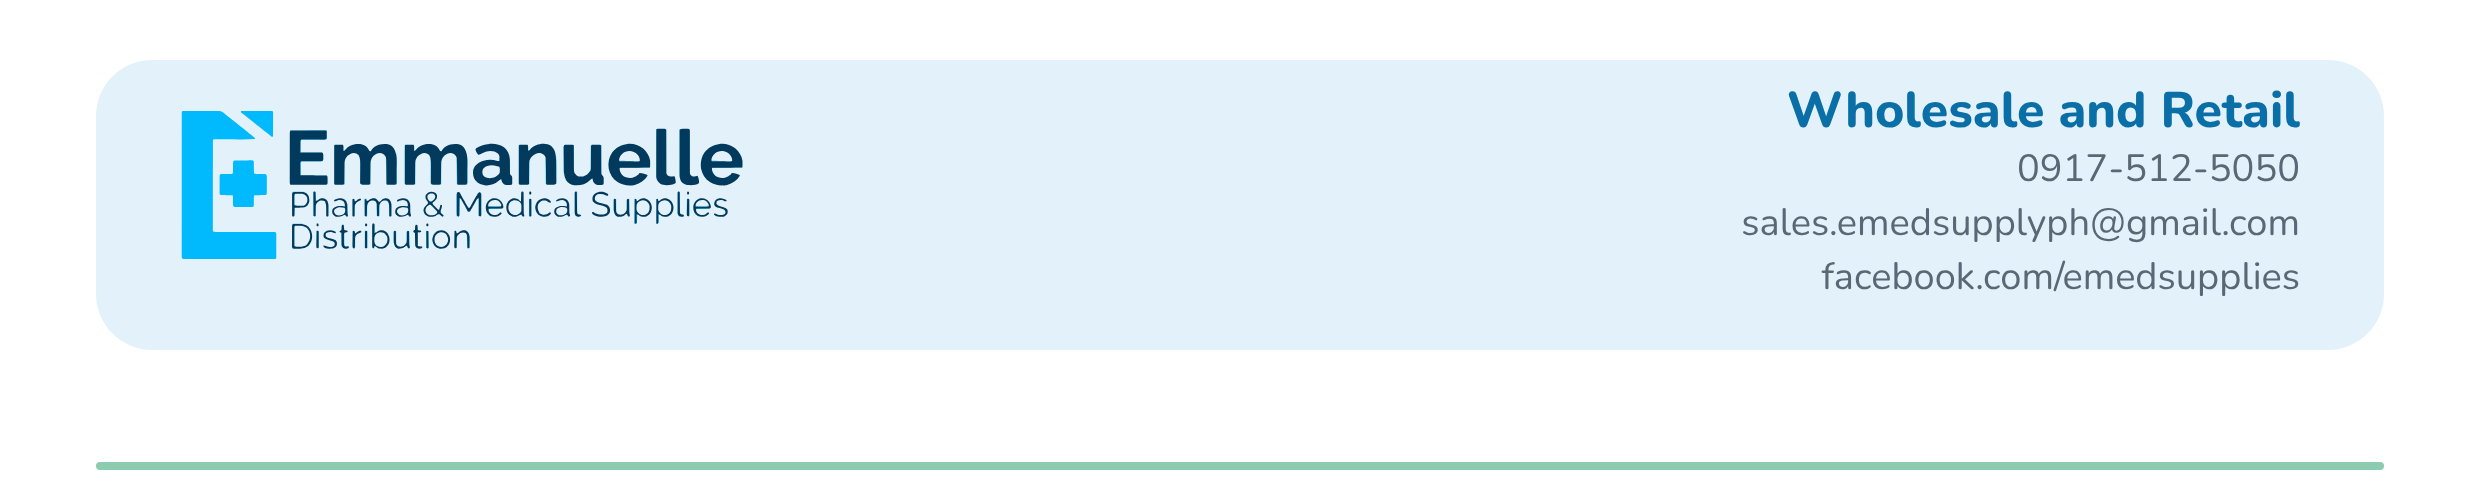
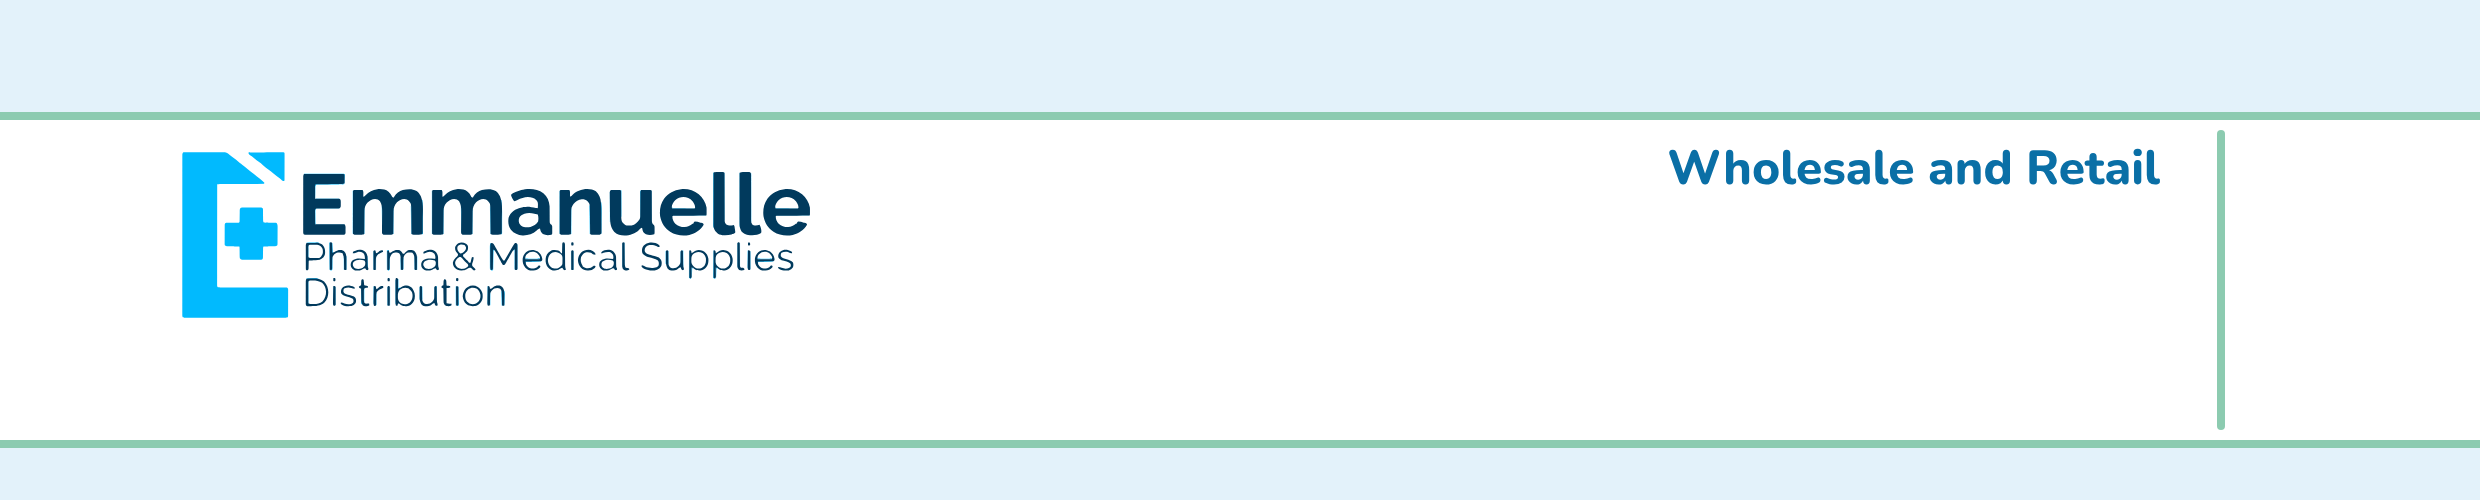
Apply letterhead zone spec to all first-page headers and document it repo-wide
Claude-Session: https://claude.ai/code/session_01YSFsKS7DuvEayQpNKr816y

diff --git a/medsource/print/2026-10-medsource-letterhead-template/source.html b/medsource/print/2026-10-medsource-letterhead-template/source.html
@@ -13,16 +13,7 @@ body{background:#888;font-family:"Poppins",sans-serif;display:flex;flex-directio
 .piece{position:relative;width:2480px;background:var(--white);overflow:hidden}
 .band{position:absolute;left:0;width:2480px}
 
-/* First page header 2480 x 500 */
 #h1{height:500px}
-#h1 .logo{position:absolute;left:177px;top:84px;height:200px}
-#h1 .addr{position:absolute;right:177px;top:84px;height:200px;display:flex;align-items:center;gap:32px}
-#h1 .addr .txt{font-size:38px;line-height:54px;font-weight:400;color:var(--navy);text-align:right;letter-spacing:.01em}
-#h1 .addr .txt b{font-weight:700}
-#h1 .addr .txt b.tag{font-size:46px;line-height:64px;letter-spacing:.02em}
-#h1 .addr .txt b.tag span{color:var(--greenstrong)}
-#h1 .addr .rule{width:5px;height:176px;background:var(--green)}
-#h1 .pin{width:64px;height:64px;border-radius:50%;background:var(--navy);display:flex;align-items:center;justify-content:center;flex:none}
 
 /* Later pages header 2480 x 250 (slim band) */
 #h2{height:250px}
@@ -41,17 +32,14 @@ body{background:#888;font-family:"Poppins",sans-serif;display:flex;flex-directio
 </head>
 <body>
 
-<div class="piece" id="h1">
-  <div class="band" style="top:0;height:40px;background:var(--forest)"></div>
-  <div class="band" style="top:40px;height:6px;background:var(--green)"></div>
-  <img class="logo" src="assets/medsource-landscape.svg" alt="MedSource Medical Supplies and Equipment">
-  <div class="addr">
-    <div class="txt"><b class="tag">Certified #Med<span>Mura</span></b><br>0906 299 3555<br>sales.quotations@medsource.com.ph</div>
-    <div class="rule"></div>
-    <div class="pin"><svg width="34" height="34" viewBox="0 0 24 24"><path fill="#fff" d="M6.6 10.8a15.1 15.1 0 0 0 6.6 6.6l2.2-2.2a1 1 0 0 1 1-.25 11.4 11.4 0 0 0 3.6.57 1 1 0 0 1 1 1V20a1 1 0 0 1-1 1A17 17 0 0 1 3 4a1 1 0 0 1 1-1h3.5a1 1 0 0 1 1 1c0 1.25.2 2.45.57 3.6a1 1 0 0 1-.25 1z"/></svg></div>
-  </div>
-  <div class="band" style="top:442px;height:6px;background:var(--green)"></div>
-  <div class="band" style="top:448px;height:20px;background:var(--navy)"></div>
+<div class="piece" id="h1"><!-- spec: letterhead-first-page-spec.jpg; zone A (177-1240, 360-430) and zone B (1300-2160, 215-430) stay blank -->
+  <div class="band" style="top:0;height:112px;background:var(--forest)"></div>
+  <div class="band" style="top:112px;height:8px;background:var(--green)"></div>
+  <img style="position:absolute;left:177px;top:140px;height:190px" src="assets/medsource-landscape.svg" alt="MedSource Medical Supplies and Equipment">
+  <div style="position:absolute;right:320px;top:130px;height:75px;display:flex;align-items:center;font-size:44px;letter-spacing:.02em;white-space:nowrap"><b style="font-weight:700;color:var(--navy)">Certified #Med<span style="color:var(--greenstrong)">Mura</span></b></div>
+  <div style="position:absolute;left:2217px;top:130px;width:6px;height:300px;background:var(--green)"></div>
+  <div class="band" style="top:440px;height:8px;background:var(--green)"></div>
+  <div class="band" style="top:448px;height:52px;background:var(--navy)"></div>
 </div>
 
 <div class="piece" id="h2">

diff --git a/medsource/print/2026-10-legal-letterhead-template/source.html b/medsource/print/2026-10-legal-letterhead-template/source.html
@@ -14,15 +14,7 @@ body{background:#888;font-family:"Poppins",sans-serif;display:flex;flex-directio
 .band{position:absolute;left:0;width:2480px}
 .tag{position:absolute;white-space:nowrap;font-weight:400;color:var(--forest);letter-spacing:.04em}
 
-/* First page header 2480 x 500 */
 #h1{height:500px}
-#h1 .logo{position:absolute;left:177px;top:84px;height:176px}
-#h1 .tag{left:auto;right:177px;top:84px;font-size:38px;line-height:52px;font-weight:700;color:var(--forest);letter-spacing:.02em}
-#h1 .addr{position:absolute;right:177px;top:144px;height:174px;display:flex;align-items:center;gap:32px}
-#h1 .addr .txt{font-size:40px;line-height:58px;font-weight:400;color:var(--navy);text-align:right;letter-spacing:.01em}
-#h1 .addr .txt b{font-weight:600;font-family:"Poppins";font-weight:700}
-#h1 .addr .rule{width:5px;height:140px;background:var(--green)}
-#h1 .pin{width:64px;height:64px;border-radius:50%;background:var(--navy);display:flex;align-items:center;justify-content:center;flex:none}
 
 /* Later pages header 2480 x 250 (slim band) */
 #h2{height:250px}
@@ -39,18 +31,14 @@ body{background:#888;font-family:"Poppins",sans-serif;display:flex;flex-directio
 </head>
 <body>
 
-<div class="piece" id="h1">
-  <div class="band" style="top:0;height:40px;background:var(--forest)"></div>
-  <div class="band" style="top:40px;height:6px;background:var(--green)"></div>
-  <img class="logo" src="assets/medsource-world.svg" alt="MedSource World">
-  <div class="tag">Sourcing the Future of Healthcare</div>
-  <div class="addr">
-    <div class="txt"><b>209 Riverside Drive</b><br>Provident Village<br>Marikina City, Philippines</div>
-    <div class="rule"></div>
-    <div class="pin"><svg width="34" height="34" viewBox="0 0 24 24"><path fill="#fff" d="M12 2a7 7 0 0 0-7 7c0 5.2 7 13 7 13s7-7.8 7-13a7 7 0 0 0-7-7zm0 9.5A2.5 2.5 0 1 1 12 6.5a2.5 2.5 0 0 1 0 5z"/></svg></div>
-  </div>
-  <div class="band" style="top:442px;height:6px;background:var(--green)"></div>
-  <div class="band" style="top:448px;height:20px;background:var(--navy)"></div>
+<div class="piece" id="h1"><!-- spec: letterhead-first-page-spec.jpg; zone A (177-1240, 360-430) and zone B (1300-2160, 215-430) stay blank -->
+  <div class="band" style="top:0;height:112px;background:var(--forest)"></div>
+  <div class="band" style="top:112px;height:8px;background:var(--green)"></div>
+  <img style="position:absolute;left:177px;top:140px;height:190px" src="assets/medsource-world.svg" alt="MedSource World">
+  <div style="position:absolute;right:320px;top:130px;height:75px;display:flex;align-items:center;font-size:44px;letter-spacing:.02em;white-space:nowrap"><span style="font-weight:700;color:var(--forest)">Sourcing the Future of Healthcare</span></div>
+  <div style="position:absolute;left:2217px;top:130px;width:6px;height:300px;background:var(--green)"></div>
+  <div class="band" style="top:440px;height:8px;background:var(--green)"></div>
+  <div class="band" style="top:448px;height:52px;background:var(--navy)"></div>
 </div>
 
 <div class="piece" id="h2">

diff --git a/medplace/print/2026-10-letterhead-template/source.html b/medplace/print/2026-10-letterhead-template/source.html
@@ -11,15 +11,16 @@ body{background:#888;font-family:"DM Sans",sans-serif;display:flex;flex-directio
 #h1{height:500px}#h2{height:250px}#f{height:250px}
 .pill{position:absolute;right:177px;background:var(--orange);color:#2b1a0a;font-family:"Bricolage Grotesque";font-weight:800;border-radius:999px;box-shadow:0 6px 0 rgba(31,42,46,.14);display:flex;align-items:center;justify-content:center}
 </style></head><body>
-<div class="piece" id="h1">
-  <div class="abs" style="left:0;top:0;width:2480px;height:36px;background:var(--orange)"></div>
-  <div class="abs" style="left:0;top:36px;width:2480px;height:8px;background:var(--teal)"></div>
-  <img class="abs" style="left:177px;top:84px;height:200px" src="../../brand/logos/medplace.svg" alt="MedPlace Medical Supplies and Pharma">
-  <div class="pill" style="top:84px;height:100px;padding:0 52px;font-size:52px">Your #1 provider</div>
-  <div class="abs" style="right:177px;top:208px;text-align:right;font-size:42px;line-height:60px;color:var(--ink)"><b style="font-weight:700">0995-156-0801</b><br>davemedplace@gmail.com</div>
-  <div class="abs" style="left:0;top:452px;width:2480px;height:8px;background:var(--teal)"></div>
-  <div class="abs" style="left:0;top:460px;width:2480px;height:20px;background:var(--orange)"></div>
+<div class="piece" id="h1"><!-- spec: letterhead-first-page-spec.jpg; zone A (177-1240, 360-430) and zone B (1300-2160, 215-430) stay blank -->
+  <div class="abs" style="left:0;top:0;width:2480px;height:112px;background:var(--orange)"></div>
+  <div class="abs" style="left:0;top:112px;width:2480px;height:8px;background:var(--teal)"></div>
+  <img class="abs" style="left:177px;top:140px;height:200px" src="../../brand/logos/medplace.svg" alt="MedPlace Medical Supplies and Pharma">
+  <div class="pill" style="right:320px;top:130px;height:70px;padding:0 44px;font-size:42px;box-shadow:0 4px 0 rgba(31,42,46,.14)">Your #1 provider</div>
+  <div class="abs" style="left:2217px;top:130px;width:8px;height:300px;border-radius:4px;background:var(--teal)"></div>
+  <div class="abs" style="left:0;top:440px;width:2480px;height:8px;background:var(--teal)"></div>
+  <div class="abs" style="left:0;top:448px;width:2480px;height:52px;background:var(--orange)"></div>
 </div>
+
 <div class="piece" id="h2">
   <div class="abs" style="left:0;top:0;width:2480px;height:22px;background:var(--orange)"></div>
   <div class="abs" style="left:0;top:22px;width:2480px;height:4px;background:var(--teal)"></div>

diff --git a/emmanuelle-pharma/print/2026-10-letterhead-brand/source.html b/emmanuelle-pharma/print/2026-10-letterhead-brand/source.html
@@ -10,13 +10,16 @@ body{background:#888;font-family:"Nunito",sans-serif;display:flex;flex-direction
 #h1{height:500px}#h2{height:250px}#f{height:250px}
 .r{position:absolute;right:180px;text-align:right}
 </style></head><body>
-<div class="piece" id="h1">
-  <div class="abs" style="left:96px;top:60px;width:2288px;height:290px;border-radius:56px;background:var(--mist)"></div>
-  <img class="abs" style="left:177px;top:100px;height:170px" src="../../brand/logos/emmanuelle-landscape-navy.svg" alt="Emmanuelle Pharma and Medical Supplies Distribution">
-  <div class="r" style="top:84px;font-size:38px;line-height:54px;color:var(--muted)"><b style="font-weight:800;color:var(--deep);font-size:50px">Wholesale and Retail</b><br>0917-512-5050<br>sales.emedsupplyph@gmail.com<br>facebook.com/emedsupplies</div>
-
-  <div class="abs" style="left:96px;top:462px;width:2288px;height:8px;border-radius:4px;background:var(--sage)"></div>
+<div class="piece" id="h1"><!-- spec: letterhead-first-page-spec.jpg; zone A (177-1240, 360-430) and zone B (1300-2160, 215-430) stay blank -->
+  <div class="abs" style="left:0;top:0;width:2480px;height:112px;background:var(--mist)"></div>
+  <div class="abs" style="left:0;top:112px;width:2480px;height:8px;background:var(--sage)"></div>
+  <img class="abs" style="left:177px;top:140px;height:190px" src="../../brand/logos/emmanuelle-landscape-navy.svg" alt="Emmanuelle Pharma and Medical Supplies Distribution">
+  <div class="abs" style="right:320px;top:130px;height:75px;display:flex;align-items:center;font-weight:800;font-size:48px;color:var(--deep);white-space:nowrap">Wholesale and Retail</div>
+  <div class="abs" style="left:2217px;top:130px;width:8px;height:300px;border-radius:4px;background:var(--sage)"></div>
+  <div class="abs" style="left:0;top:440px;width:2480px;height:8px;background:var(--sage)"></div>
+  <div class="abs" style="left:0;top:448px;width:2480px;height:52px;background:var(--mist)"></div>
 </div>
+
 <div class="piece" id="h2">
   <div class="abs" style="left:96px;top:30px;width:2288px;height:160px;border-radius:44px;background:var(--mist)"></div>
   <img class="abs" style="left:177px;top:62px;height:96px" src="../../brand/logos/emmanuelle-landscape-navy.svg" alt="Emmanuelle">

diff --git a/emmanuelle-pharma/print/2026-10-letterhead-government/source.html b/emmanuelle-pharma/print/2026-10-letterhead-government/source.html
@@ -10,13 +10,16 @@ body{background:#888;font-family:"Nunito",sans-serif;display:flex;flex-direction
 #h1{height:500px}#h2{height:250px}#f{height:250px}
 .r{position:absolute;right:180px;text-align:right}
 </style></head><body>
-<div class="piece" id="h1">
-  <div class="abs" style="left:96px;top:60px;width:2288px;height:290px;border-radius:56px;background:var(--mist)"></div>
-  <img class="abs" style="left:177px;top:100px;height:170px" src="../../brand/logos/emmanuelle-landscape-navy.svg" alt="Emmanuelle Pharma and Medical Supplies Distribution">
-  <div class="r" style="top:84px;font-size:38px;line-height:54px;color:var(--muted)"><b style="font-weight:800;color:var(--deep);font-size:50px">Wholesale and Retail</b><br>209 Riverside Drive, Provident Village<br>Marikina City</div>
-
-  <div class="abs" style="left:96px;top:462px;width:2288px;height:8px;border-radius:4px;background:var(--sage)"></div>
+<div class="piece" id="h1"><!-- spec: letterhead-first-page-spec.jpg; zone A (177-1240, 360-430) and zone B (1300-2160, 215-430) stay blank -->
+  <div class="abs" style="left:0;top:0;width:2480px;height:112px;background:var(--mist)"></div>
+  <div class="abs" style="left:0;top:112px;width:2480px;height:8px;background:var(--sage)"></div>
+  <img class="abs" style="left:177px;top:140px;height:190px" src="../../brand/logos/emmanuelle-landscape-navy.svg" alt="Emmanuelle Pharma and Medical Supplies Distribution">
+  <div class="abs" style="right:320px;top:130px;height:75px;display:flex;align-items:center;font-weight:800;font-size:48px;color:var(--deep);white-space:nowrap">Wholesale and Retail</div>
+  <div class="abs" style="left:2217px;top:130px;width:8px;height:300px;border-radius:4px;background:var(--sage)"></div>
+  <div class="abs" style="left:0;top:440px;width:2480px;height:8px;background:var(--sage)"></div>
+  <div class="abs" style="left:0;top:448px;width:2480px;height:52px;background:var(--mist)"></div>
 </div>
+
 <div class="piece" id="h2">
   <div class="abs" style="left:96px;top:30px;width:2288px;height:160px;border-radius:44px;background:var(--mist)"></div>
   <img class="abs" style="left:177px;top:62px;height:96px" src="../../brand/logos/emmanuelle-landscape-navy.svg" alt="Emmanuelle">

diff --git a/LETTERHEAD-SPEC.md b/LETTERHEAD-SPEC.md
@@ -1,0 +1,29 @@
+# Letterhead format (all brands, brand level and government level)
+
+Every letterhead in this repo must comply with this layout. The system fills the letter, so the keep-blank zones must stay empty. Reference diagram: [letterhead-first-page-spec.jpg](letterhead-first-page-spec.jpg)
+
+## First page header, 2480 x 500 px (origin 0,0 top left)
+
+| Area | Coordinates | Rule |
+| --- | --- | --- |
+| Top bar | full width, y 0 to 120 | Bar only, full width |
+| Bottom bar | full width, y 440 to 500 | Bar only, full width |
+| Side margins | x 0 to 177 and x 2303 to 2480 | Bars only |
+| Logo area | x 177 to 1240, y 120 to 350 | Logo must end above y 350 |
+| Zone A | x 177 to 1240, y 360 to 430 | KEEP BLANK, system prints the branch tag |
+| Optional tagline | x 1300 to 2160, y 130 to 205 | Right-aligned to x 2160 |
+| Zone B | x 1300 to 2160, y 215 to 430 | KEEP BLANK, system prints phone, email and address |
+| Optional decoration | x 2160 to 2303, y 130 to 430 | Decoration only |
+
+So no phone, email, address, branch name or any other text goes in the header body. Nothing sits under the logo.
+
+## Other pieces
+
+- Later pages header: 2480 x 250 px slim band.
+- Footer, every page: 2480 x 250 px.
+- No em dashes anywhere.
+
+## Brand notes
+
+- MedSource uses the MedSource logo for its brand level letterhead and MedSource World for its government level letterhead. Emmanuelle Pharma uses the same logo for both levels.
+- Each letterhead's `print.md` and `source.html` carry the zone comments. Check the zones before filing a new or revised letterhead.

diff --git a/medsource/print/2026-10-medsource-letterhead-template/print.md b/medsource/print/2026-10-medsource-letterhead-template/print.md
@@ -12,7 +12,7 @@ Later pages header revamped Oct 12, 2026 to a slim 2480 × 250 px band (small lo
 
 Brand level letterhead, the Digital Sales header: Certified #MedMura, 0906 299 3555 and sales.quotations@medsource.com.ph. Retail companion to the [MedSource World letterhead](../2026-10-legal-letterhead-template/print.md). Same straight forest and navy bands with brand-green stripes.
 
-Revamped Oct 13, 2026 for system-filled letterheads: the lower right side of every header is blank and nothing sits under the logo. Content is held to the top of each header and footer.
+Revamped Oct 13, 2026 to the repo letterhead format: [LETTERHEAD-SPEC.md](../../../LETTERHEAD-SPEC.md). First page header keeps Zone A (branch tag) and Zone B (phone, email, address) blank because the system prints them, the logo ends above y 350, and only the optional tagline sits at the top right.
 
 ## Files
 

diff --git a/emmanuelle-pharma/print/2026-10-letterhead-government/print.md b/emmanuelle-pharma/print/2026-10-letterhead-government/print.md
@@ -10,7 +10,7 @@
 
 Government level letterhead for Emmanuelle Pharma & Medical Supplies Distribution. Same soft look as the [brand letterhead](../2026-10-letterhead-brand/print.md), with the business address (209 Riverside Drive, Provident Village, Marikina City) and no contact person or phone.
 
-Revamped Oct 13, 2026 for system-filled letterheads: the lower right side of every header is blank and nothing sits under the logo. Content is held to the top of each header and footer.
+Revamped Oct 13, 2026 to the repo letterhead format: [LETTERHEAD-SPEC.md](../../../LETTERHEAD-SPEC.md). First page header keeps Zone A (branch tag) and Zone B (phone, email, address) blank because the system prints them, the logo ends above y 350, and only the optional tagline sits at the top right.
 
 ## Files
 

diff --git a/emmanuelle-pharma/print/2026-10-letterhead-brand/print.md b/emmanuelle-pharma/print/2026-10-letterhead-brand/print.md
@@ -10,7 +10,7 @@
 
 Brand level letterhead. Uses the same logo as the [government letterhead](../2026-10-letterhead-government/print.md). Soft rounded mist panel, sage line, Wholesale and Retail, page line and #masmurakayemman in the footer. Contact: 0917-512-5050, sales.emedsupplyph@gmail.com.
 
-Revamped Oct 13, 2026 for system-filled letterheads: the lower right side of every header is blank and nothing sits under the logo. Content is held to the top of each header and footer.
+Revamped Oct 13, 2026 to the repo letterhead format: [LETTERHEAD-SPEC.md](../../../LETTERHEAD-SPEC.md). First page header keeps Zone A (branch tag) and Zone B (phone, email, address) blank because the system prints them, the logo ends above y 350, and only the optional tagline sits at the top right.
 
 ## Files
 

diff --git a/medsource/print/2026-10-legal-letterhead-template/print.md b/medsource/print/2026-10-legal-letterhead-template/print.md
@@ -12,7 +12,7 @@ Marked as the legal government letterhead template. Old letterhead used as basis
 
 Later pages header revamped Oct 13, 2026 to the slim 2480 × 250 px band (small logo plus tagline) to match the other brand letterheads.
 
-Revamped Oct 13, 2026 for system-filled letterheads: the lower right side of every header is blank and nothing sits under the logo. Content is held to the top of each header and footer.
+Revamped Oct 13, 2026 to the repo letterhead format: [LETTERHEAD-SPEC.md](../../../LETTERHEAD-SPEC.md). First page header keeps Zone A (branch tag) and Zone B (phone, email, address) blank because the system prints them, the logo ends above y 350, and only the optional tagline sits at the top right.
 
 ## Files
 

diff --git a/medplace/print/2026-10-letterhead-template/print.md b/medplace/print/2026-10-letterhead-template/print.md
@@ -10,7 +10,7 @@
 
 Brand letterhead. Straight orange and teal bands, sticker-style Your #1 provider pill, dark ink on orange. Contact: 0995-156-0801, davemedplace@gmail.com. No address yet.
 
-Revamped Oct 13, 2026 for system-filled letterheads: the lower right side of every header is blank and nothing sits under the logo. Content is held to the top of each header and footer.
+Revamped Oct 13, 2026 to the repo letterhead format: [LETTERHEAD-SPEC.md](../../../LETTERHEAD-SPEC.md). First page header keeps Zone A (branch tag) and Zone B (phone, email, address) blank because the system prints them, the logo ends above y 350, and only the optional tagline sits at the top right.
 
 ## Files
 

diff --git a/medsource/README.md b/medsource/README.md
@@ -1,5 +1,7 @@
 # MedSource Media
 
+Letterheads follow the repo format: [LETTERHEAD-SPEC.md](../LETTERHEAD-SPEC.md).
+
 Every MedSource publication in one place: social posts, signage and print, plus the logos. Images here are public so Metricool can schedule them. Brand rules live in the [MedSource Design System](https://claude.ai/artifact/LojEEUnecRaNcobaZvbXQ8). Part of [Brand Media](../README.md). MedSource is the only brand scheduled through Metricool.
 
 ## Social posts
